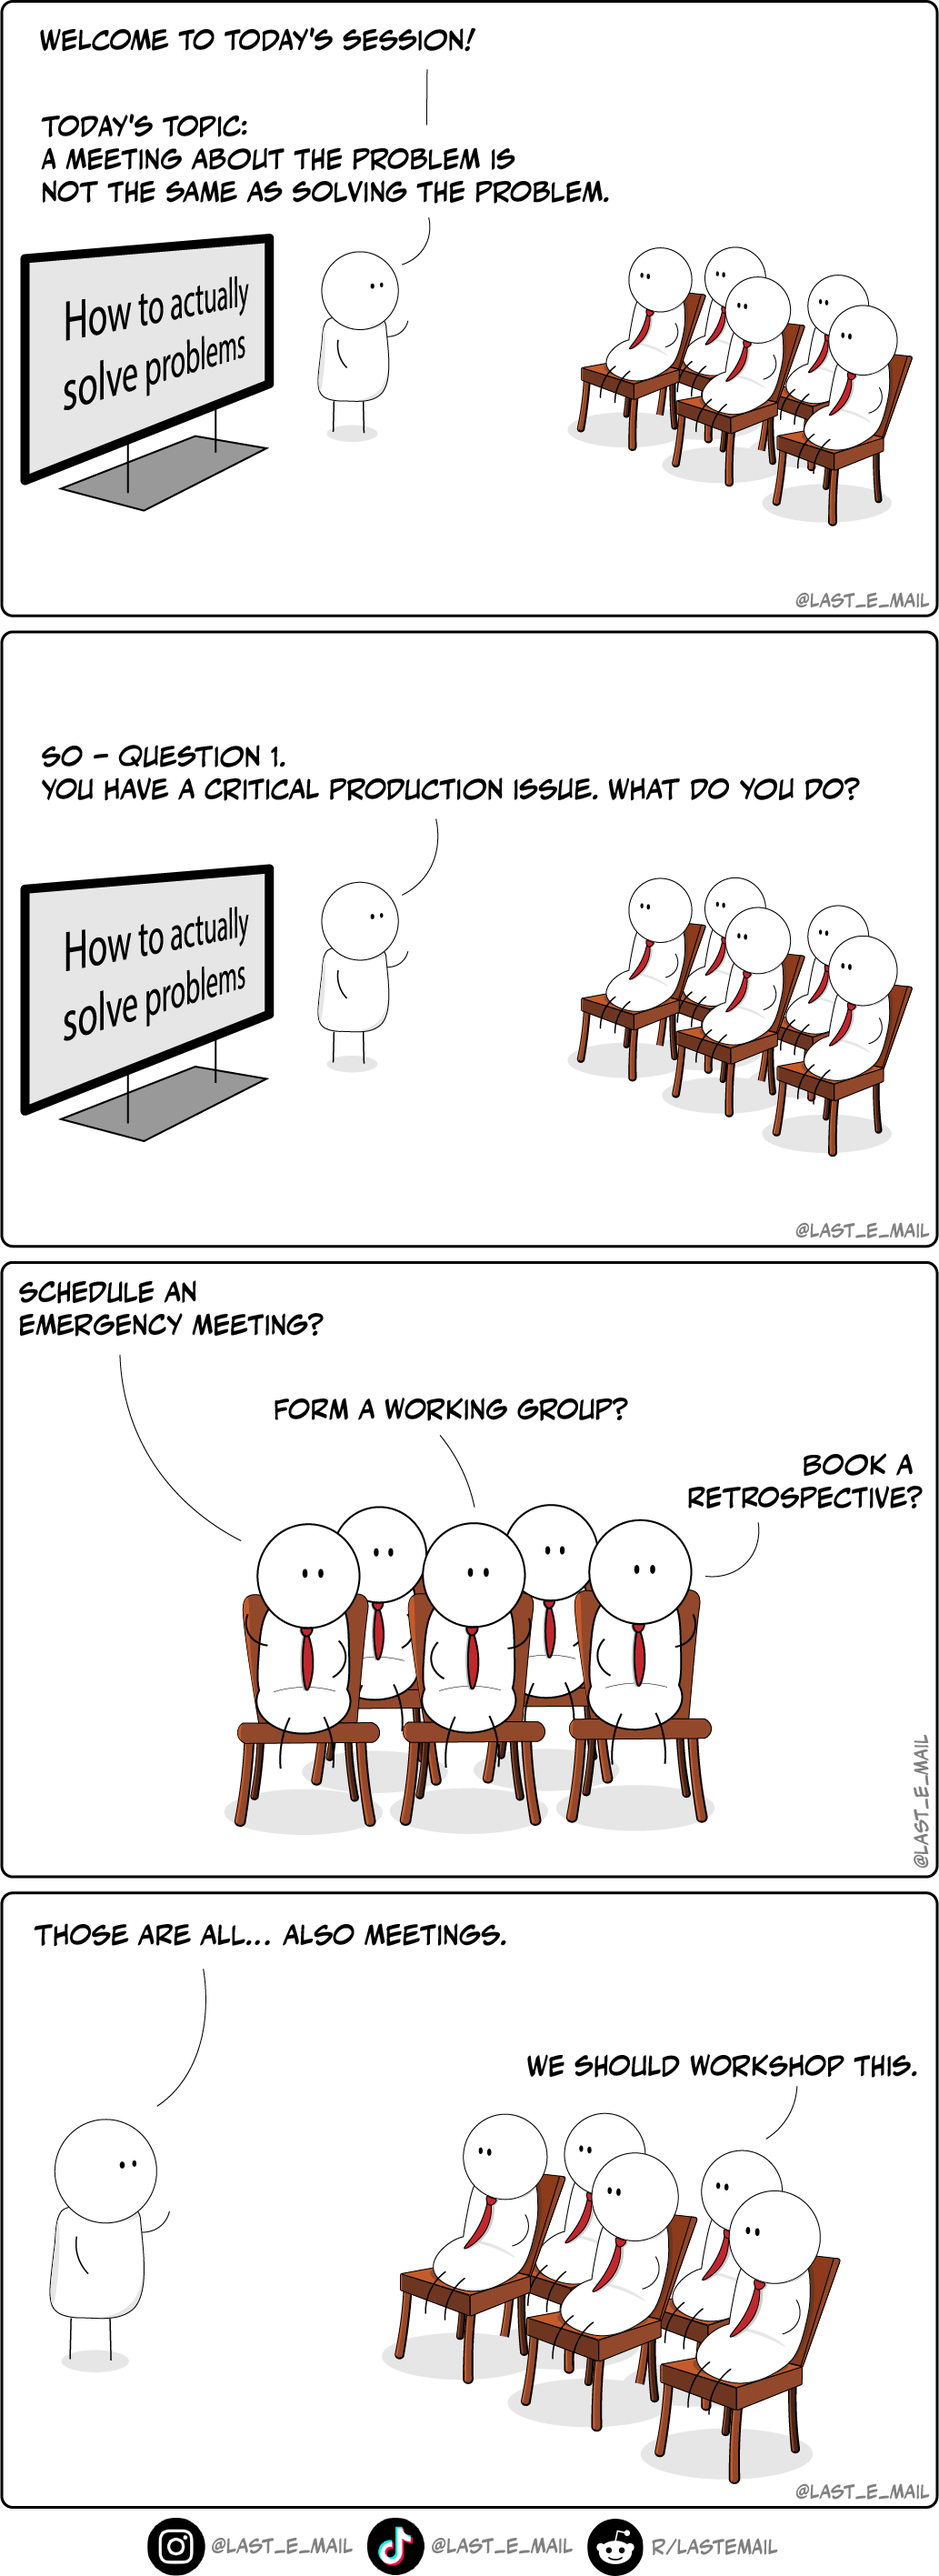
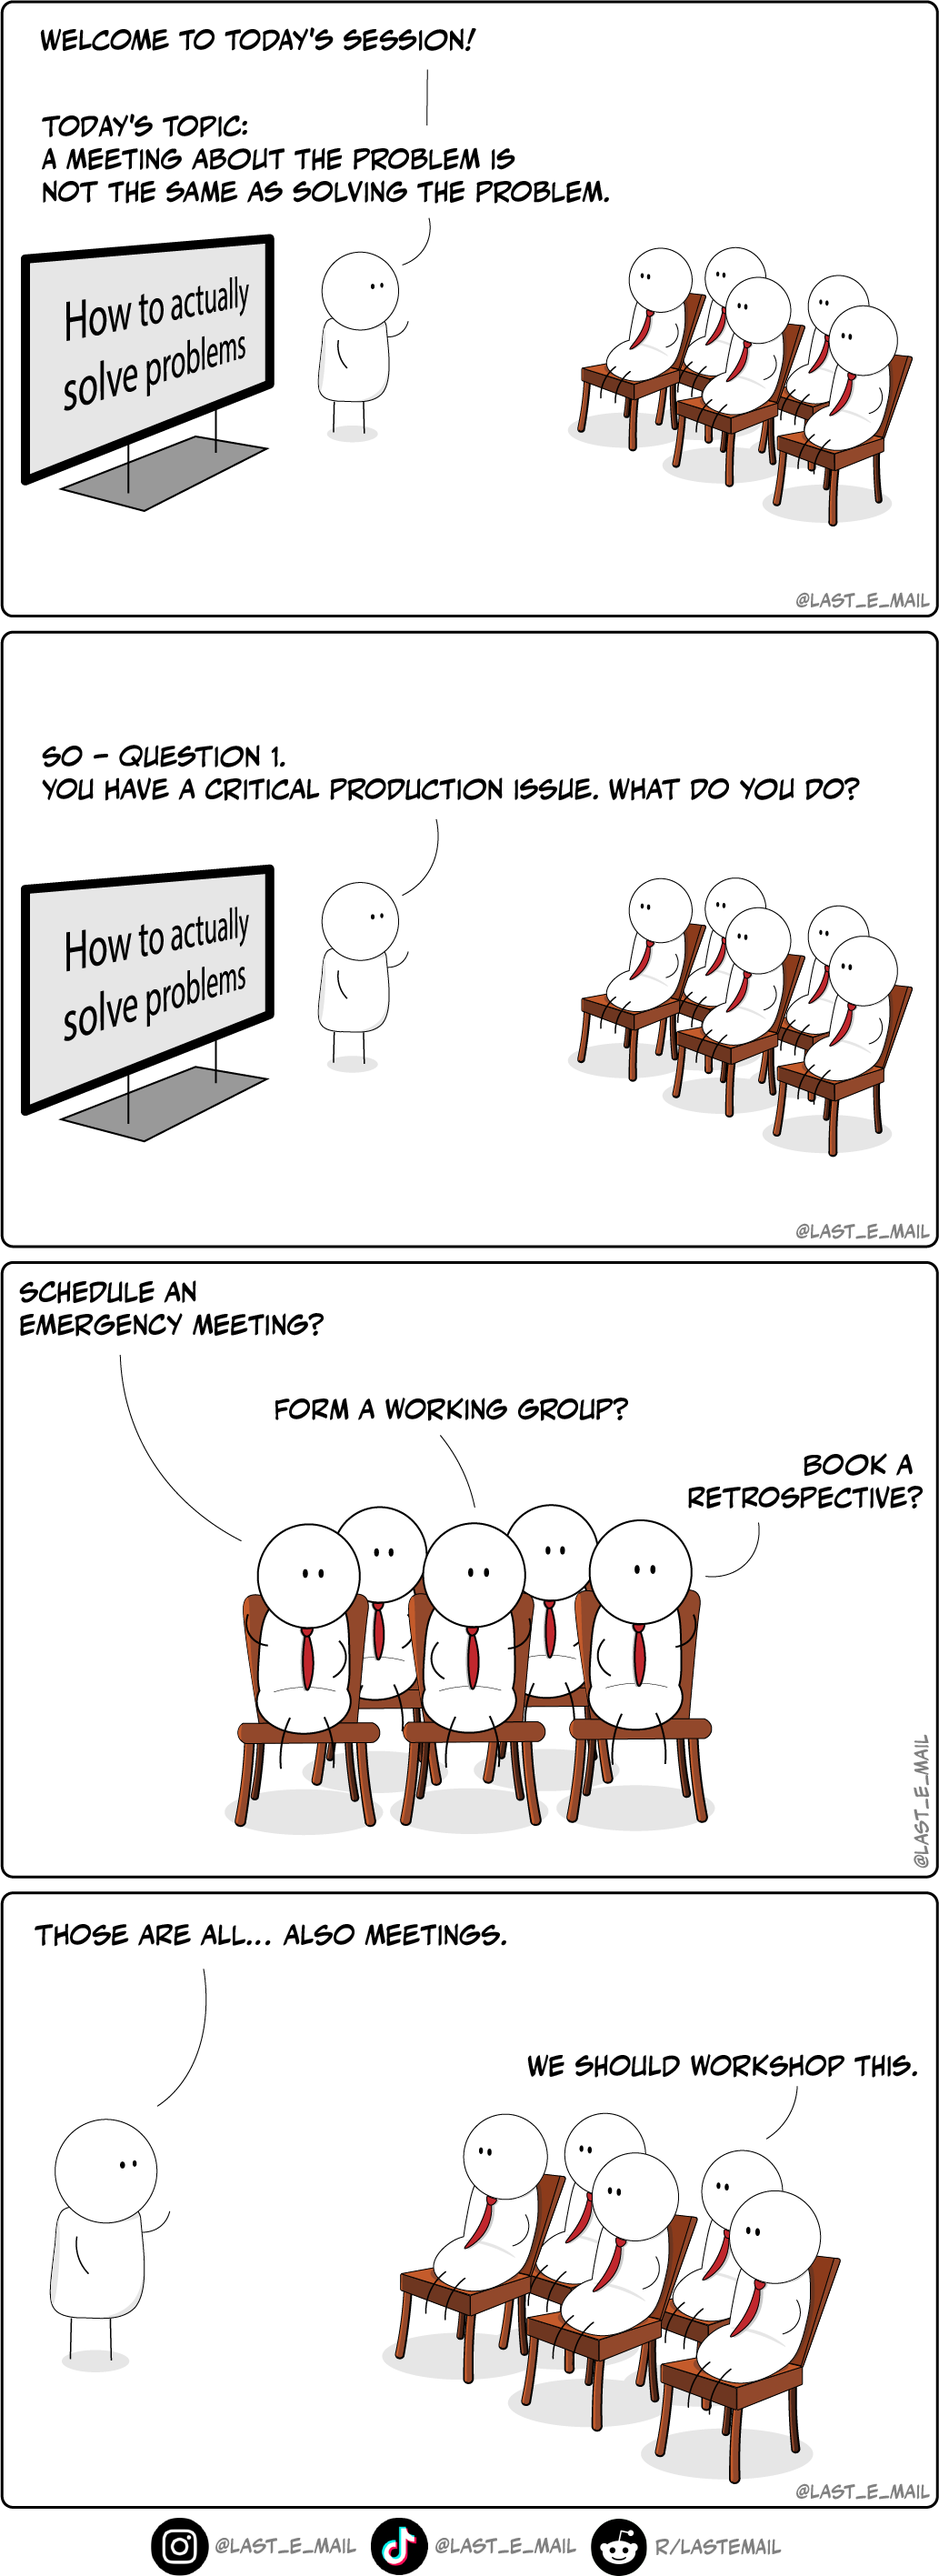
Publishes #53, fixes chair leg issue #52

diff --git a/comics/pages/53.html b/comics/pages/53.html
@@ -9,11 +9,10 @@
 <body>
 
     <div class="container">
-        <h1>52. The Workshop</h1>
-        <img src="../images/52.png">
+        <h1>53. Stakeholder Management</h1>
+        <img src="../images/53.png">
         <hr>
-        <a href="../pages/51.html">< Previous</a>
-        <a href="../pages/53.html">Next ></a>
+        <a href="../pages/52.html">< Previous</a>
 
     </div>
 </body>

diff --git a/comics/index.html b/comics/index.html
@@ -9,6 +9,7 @@
 <body>
     <div class="container">
         <h1>Comics</h1>
+        <a href="pages/53.html">53. Stakeholder Management</a><br>
         <a href="pages/52.html">52. The Workshop</a><br>
         <a href="pages/51.html">51. Any Questions?</a><br>
         <a href="pages/50.html">50. Continuous Evaluation</a><br>
